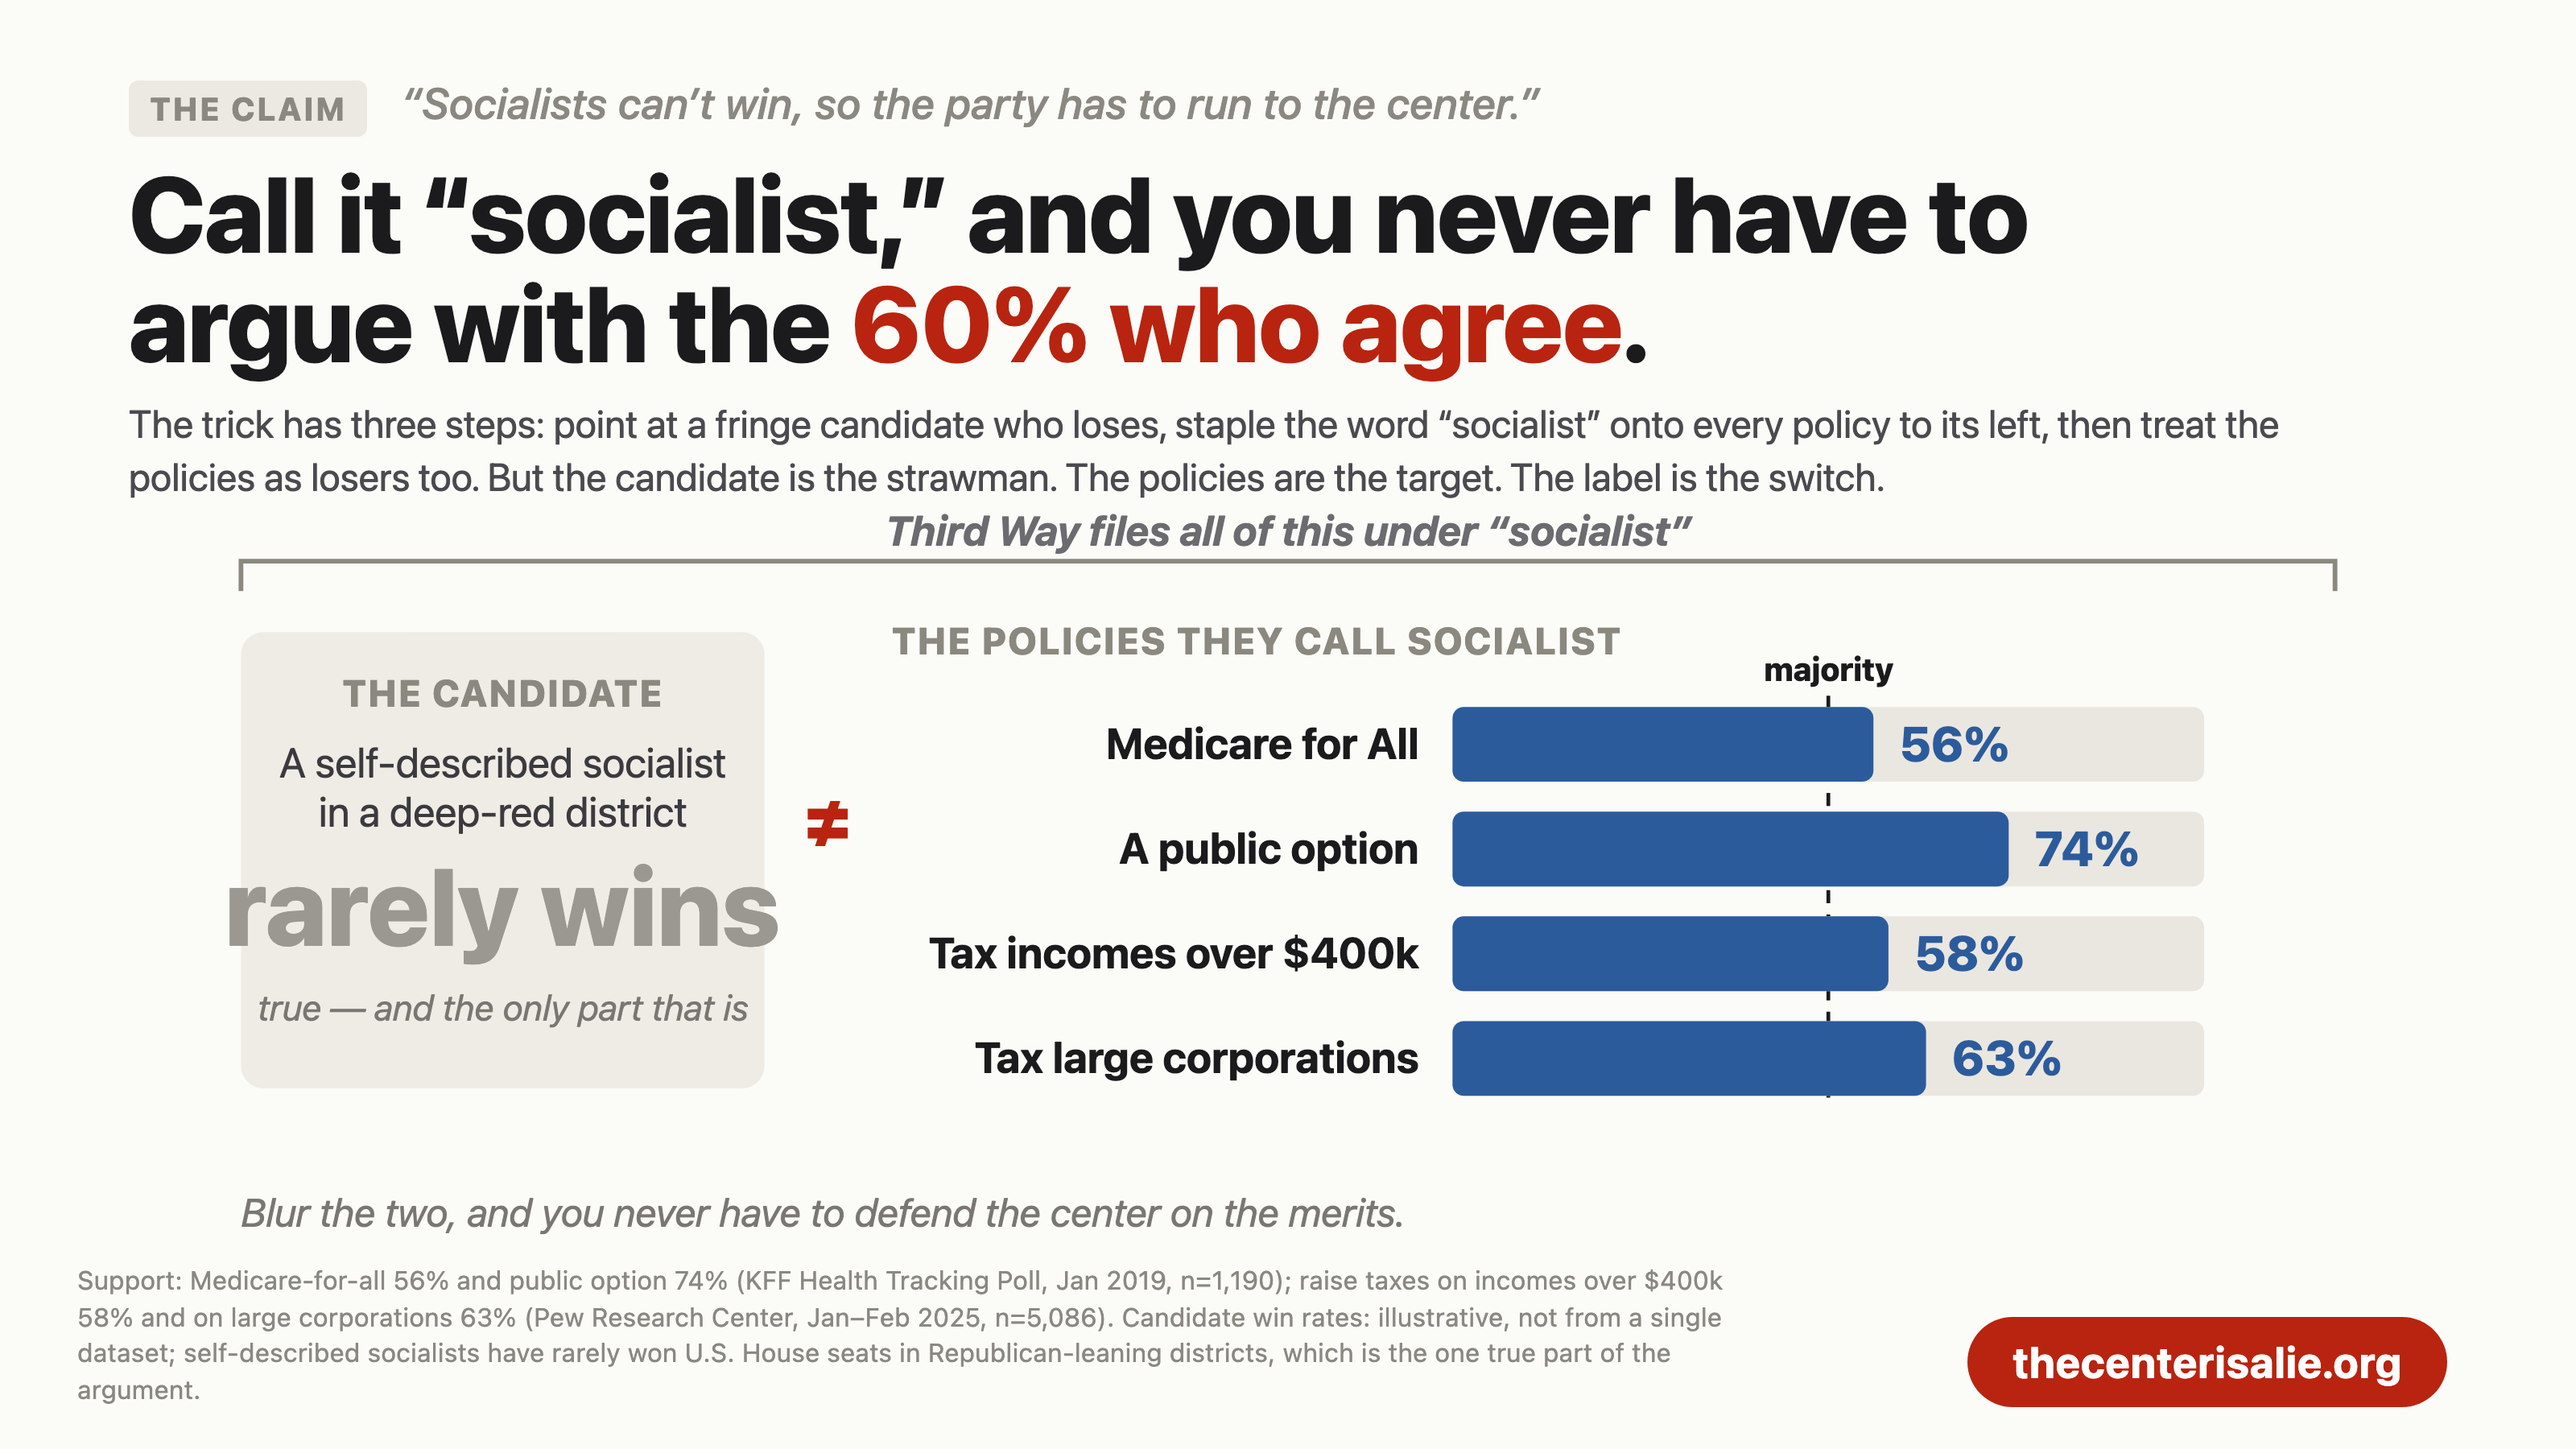
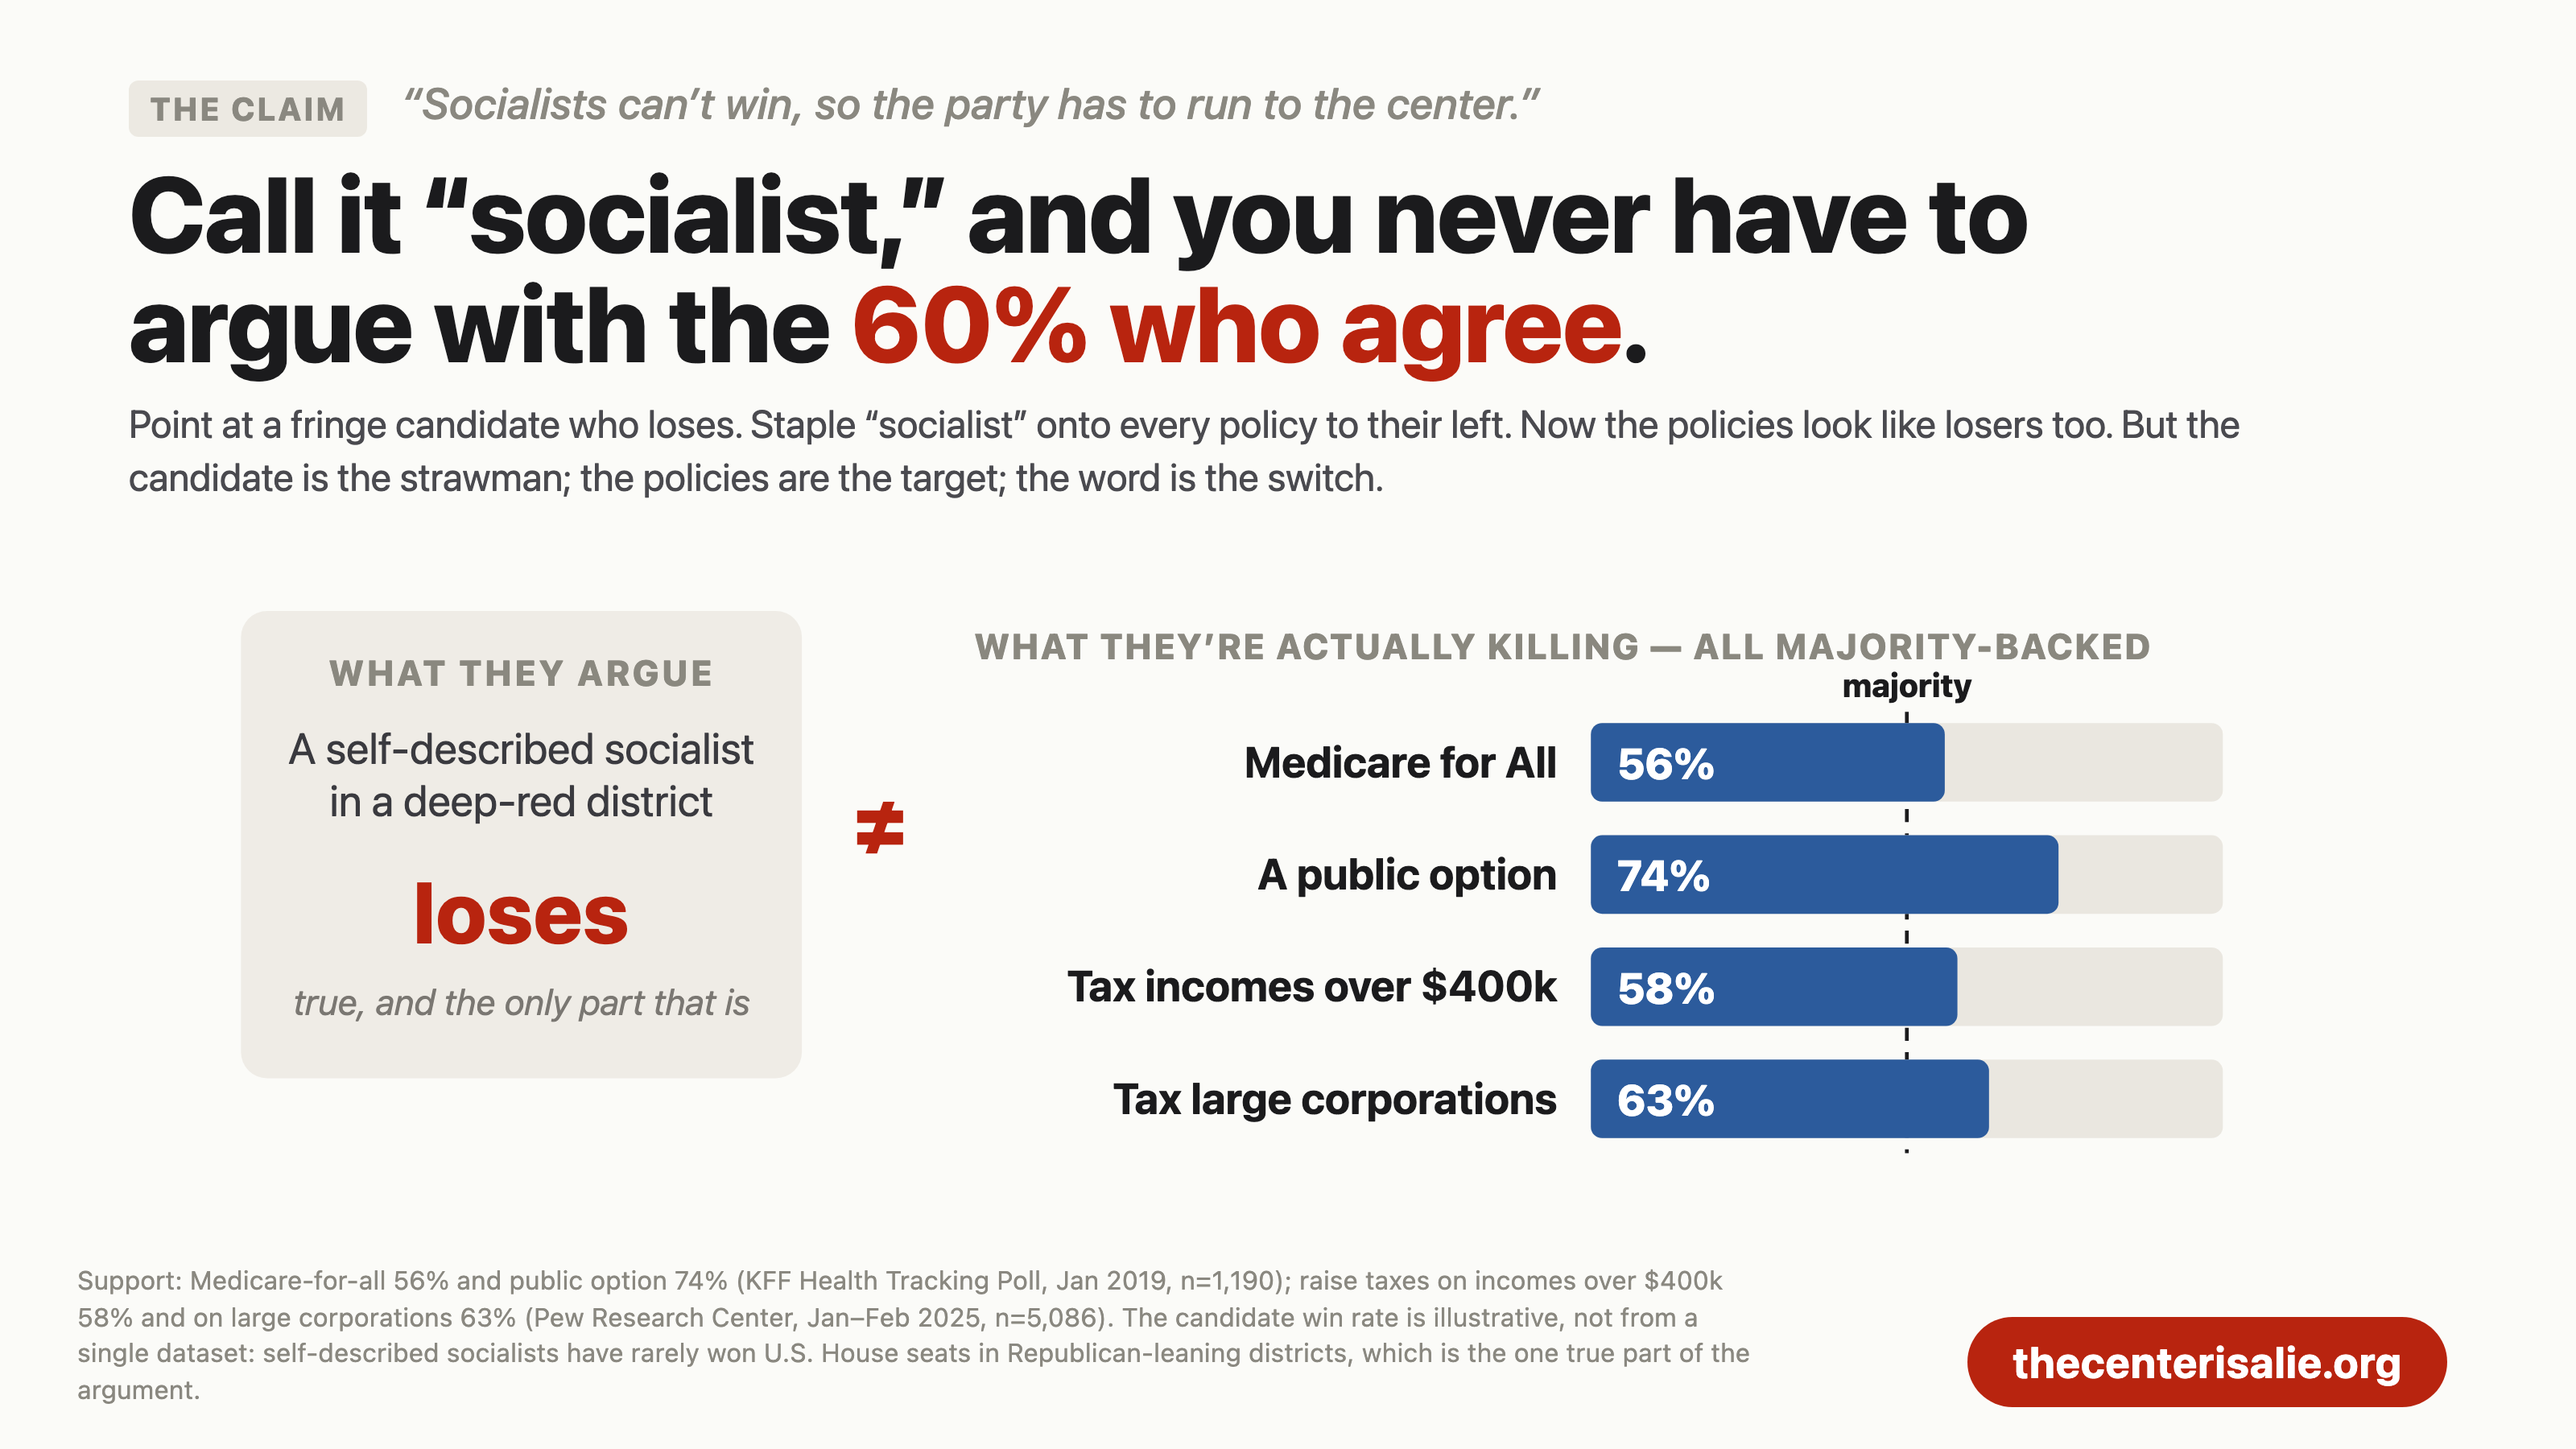
fix(og): catch text-overflows-box in the guard; rebuild labelswitch clean
Extended the render guard with a third check: a <text> node whose box is wider
or taller than the smallest rect containing its centre is overflowing its
container. This is the class my text-overlap guard was blind to, and it caught
both reported bugs on first run:
- labelswitch "rarely wins" spilling out of its panel
- mostpeople "Only with spending cuts" spilling out of its stance tag

Rebuilt labelswitch to fix all three defects the review named:
- the oversized gray-on-gray "rarely wins" is now a fitted, high-contrast red
  "loses"
- dropped the cramped "Third Way files all of this under socialist" bracket for
  two clean section headers ("WHAT THEY ARGUE" / "WHAT THEY'RE ACTUALLY KILLING")
- removed the "Blur the two" line that floated in dead space; the subhead
  already lands the point

mostpeople stance tags dropped to 18px so they fit. All 33 cards pass clip,
dead-space, text-overlap and text-overflow clean.

diff --git a/web/og-cards/chart-labelswitch.html b/web/og-cards/chart-labelswitch.html
@@ -4,13 +4,13 @@
   <div class="chartcard">
     <div class="cc-claim"><span class="tag">The claim</span> &ldquo;Socialists can&rsquo;t win, so the party has to run to the center.&rdquo;</div>
     <div class="cc-title">Call it &ldquo;socialist,&rdquo; and you never have to argue with the <span class="hl">60% who agree</span>.</div>
-    <div class="cc-sub">The trick has three steps: point at a fringe candidate who loses, staple the word &ldquo;socialist&rdquo; onto every policy to its left, then treat the policies as losers too. But the candidate is the strawman. The policies are the target. The label is the switch.</div>
+    <div class="cc-sub">Point at a fringe candidate who loses. Staple &ldquo;socialist&rdquo; onto every policy to their left. Now the policies look like losers too. But the candidate is the strawman; the policies are the target; the word is the switch.</div>
 
-    <div class="cc-chart"><svg id="ls" viewBox="0 0 1240 400" role="img"
-      aria-label="A self-described socialist rarely wins a deep-red seat, which is true. But the policies filed under socialist all win majorities: Medicare for All 56 percent, a public option 74 percent, taxing incomes over 400k 58 percent, taxing large corporations 63 percent."></svg></div>
+    <div class="cc-chart"><svg id="ls" viewBox="0 0 1240 372" role="img"
+      aria-label="A self-described socialist rarely wins a deep-red seat, which is the one true part. But the policies filed under socialist all win majorities: Medicare for All 56 percent, a public option 74 percent, taxing incomes over 400k 58 percent, taxing large corporations 63 percent."></svg></div>
 
     <div class="cc-foot">
-      <div class="cc-source">Support: Medicare-for-all 56% and public option 74% (KFF Health Tracking Poll, Jan 2019, n=1,190); raise taxes on incomes over $400k 58% and on large corporations 63% (Pew Research Center, Jan&ndash;Feb 2025, n=5,086). Candidate win rates: illustrative, not from a single dataset; self-described socialists have rarely won U.S. House seats in Republican-leaning districts, which is the one true part of the argument.</div>
+      <div class="cc-source">Support: Medicare-for-all 56% and public option 74% (KFF Health Tracking Poll, Jan 2019, n=1,190); raise taxes on incomes over $400k 58% and on large corporations 63% (Pew Research Center, Jan&ndash;Feb 2025, n=5,086). The candidate win rate is illustrative, not from a single dataset: self-described socialists have rarely won U.S. House seats in Republican-leaning districts, which is the one true part of the argument.</div>
       <div class="cc-btn">thecenterisalie.org</div>
     </div>
   </div>
@@ -21,47 +21,39 @@
     const el = (t, a) => { const n = document.createElementNS(NS, t); for (const k in a) n.setAttribute(k, a[k]); return n; };
     const txt = (a, s) => { const t = el('text', a); t.textContent = s; svg.appendChild(t); return t; };
 
-    // shared label bracket spanning both zones
-    const BX0 = 60, BX1 = 1180, BY = 28;
-    svg.appendChild(el('path', { d: `M ${BX0} ${BY + 16} L ${BX0} ${BY} L ${BX1} ${BY} L ${BX1} ${BY + 16}`, fill: 'none', stroke: '#8a887f', 'stroke-width': 2.5 }));
-    txt({ x: (BX0 + BX1) / 2, y: BY - 8, 'text-anchor': 'middle', fill: '#6b6b70', 'font-size': 22, 'font-weight': 700, 'font-style': 'italic' }, 'Third Way files all of this under &ldquo;socialist&rdquo;'.replace(/&ldquo;/g, '“').replace(/&rdquo;/g, '”'));
+    // LEFT — the candidate. One narrow, true case.
+    const LX = 60, LW = 300, tzy = 40, LH = 250;
+    svg.appendChild(el('rect', { x: LX, y: tzy, width: LW, height: LH, rx: 14, fill: '#efece6' }));
+    const lc = LX + LW / 2;
+    txt({ x: lc, y: tzy + 40, 'text-anchor': 'middle', fill: '#8a887f', 'font-size': 19, 'font-weight': 800, 'letter-spacing': 1.5 }, 'WHAT THEY ARGUE');
+    txt({ x: lc, y: tzy + 82, 'text-anchor': 'middle', fill: '#3a3a3f', 'font-size': 23 }, 'A self-described socialist');
+    txt({ x: lc, y: tzy + 110, 'text-anchor': 'middle', fill: '#3a3a3f', 'font-size': 23 }, 'in a deep-red district');
+    txt({ x: lc, y: tzy + 178, 'text-anchor': 'middle', fill: '#b8240f', 'font-size': 46, 'font-weight': 800 }, 'loses');
+    txt({ x: lc, y: tzy + 216, 'text-anchor': 'middle', fill: '#7a7772', 'font-size': 19, 'font-style': 'italic' }, 'true, and the only part that is');
 
-    // LEFT ZONE — the candidate (the one true, narrow case)
-    const LZ = 340, tzy = 66, h = 244;
-    svg.appendChild(el('rect', { x: BX0, y: tzy, width: LZ - BX0, height: h, rx: 12, fill: '#efece6' }));
-    txt({ x: (BX0 + LZ) / 2, y: tzy + 40, 'text-anchor': 'middle', fill: '#8a887f', 'font-size': 20, 'font-weight': 800, 'letter-spacing': 1 }, 'THE CANDIDATE');
-    txt({ x: (BX0 + LZ) / 2, y: tzy + 78, 'text-anchor': 'middle', fill: '#3a3a3f', 'font-size': 22 }, 'A self-described socialist');
-    txt({ x: (BX0 + LZ) / 2, y: tzy + 104, 'text-anchor': 'middle', fill: '#3a3a3f', 'font-size': 22 }, 'in a deep-red district');
-    txt({ x: (BX0 + LZ) / 2, y: tzy + 168, 'text-anchor': 'middle', fill: '#9a9891', 'font-size': 58, 'font-weight': 800 }, 'rarely wins');
-    txt({ x: (BX0 + LZ) / 2, y: tzy + 208, 'text-anchor': 'middle', fill: '#7a7772', 'font-size': 19, 'font-style': 'italic' }, 'true — and the only part that is');
+    // the switch
+    txt({ x: LX + LW + 42, y: tzy + LH / 2 + 4, 'text-anchor': 'middle', fill: '#b8240f', 'font-size': 46, 'font-weight': 800 }, '≠');
 
-    // divider
-    txt({ x: LZ + 34, y: tzy + h / 2 - 8, 'text-anchor': 'middle', fill: '#b8240f', 'font-size': 40, 'font-weight': 800 }, '≠');
-
-    // RIGHT ZONE — the policies, all majority
-    const RX0 = LZ + 68, RX1 = 1180, RW = RX1 - RX0;
-    txt({ x: RX0, y: tzy + 12, 'text-anchor': 'start', fill: '#8a887f', 'font-size': 20, 'font-weight': 800, 'letter-spacing': 1 }, 'THE POLICIES THEY CALL SOCIALIST');
+    // RIGHT — the policies. All majority.
+    const RX = LX + LW + 92;
+    txt({ x: RX, y: tzy + 26, 'text-anchor': 'start', fill: '#8a887f', 'font-size': 19, 'font-weight': 800, 'letter-spacing': 1 }, 'WHAT THEY’RE ACTUALLY KILLING — ALL MAJORITY-BACKED');
     const items = [
       { n: 'Medicare for All', v: 56 },
       { n: 'A public option', v: 74 },
       { n: 'Tax incomes over $400k', v: 58 },
       { n: 'Tax large corporations', v: 63 },
     ];
-    const bx0 = RX0 + 300, bx1 = RX1 - 70, bw = bx1 - bx0;
-    const rowTop = tzy + 40, rh = 40, gap = 16;
-    // majority reference line
-    const mjx = bx0 + 0.5 * bw;
-    svg.appendChild(el('line', { x1: mjx, y1: rowTop - 6, x2: mjx, y2: rowTop + items.length * (rh + gap) - gap + 6, stroke: '#1b1b1d', 'stroke-width': 2, 'stroke-dasharray': '7 6' }));
+    const bx0 = RX + 330, bx1 = 1120, bw = bx1 - bx0;
+    const rowTop = tzy + 60, rh = 42, gap = 18;
+    const mjx = bx0 + 0.5 * bw, mjBot = rowTop + items.length * (rh + gap) - gap + 8;
+    svg.appendChild(el('line', { x1: mjx, y1: rowTop - 6, x2: mjx, y2: mjBot, stroke: '#1b1b1d', 'stroke-width': 2, 'stroke-dasharray': '7 6' }));
     txt({ x: mjx, y: rowTop - 14, 'text-anchor': 'middle', fill: '#1b1b1d', 'font-size': 17, 'font-weight': 800 }, 'majority');
     items.forEach((it, i) => {
       const y = rowTop + i * (rh + gap);
-      txt({ x: bx0 - 18, y: y + rh - 12, 'text-anchor': 'end', fill: '#1b1b1d', 'font-size': 23, 'font-weight': 700 }, it.n);
+      txt({ x: bx0 - 18, y: y + rh - 13, 'text-anchor': 'end', fill: '#1b1b1d', 'font-size': 23, 'font-weight': 700 }, it.n);
       svg.appendChild(el('rect', { x: bx0, y, width: bw, height: rh, rx: 6, fill: '#eae7e0' }));
       svg.appendChild(el('rect', { x: bx0, y, width: bw * it.v / 100, height: rh, rx: 6, fill: '#2c5b9c' }));
-      txt({ x: bx0 + bw * it.v / 100 + 14, y: y + rh - 11, 'text-anchor': 'start', fill: '#2c5b9c', 'font-size': 26, 'font-weight': 800 }, it.v + '%');
+      txt({ x: bx0 + 14, y: y + rh - 12, 'text-anchor': 'start', fill: '#fff', 'font-size': 23, 'font-weight': 800 }, it.v + '%');
     });
-
-    txt({ x: 60, y: 384, 'text-anchor': 'start', fill: '#7a7772', 'font-size': 21, 'font-style': 'italic' },
-      'Blur the two, and you never have to defend the center on the merits.');
   </script>
 </body></html>

diff --git a/web/og-cards/chart-mostpeople.html b/web/og-cards/chart-mostpeople.html
@@ -54,7 +54,7 @@
       // stance tag
       const col = r.oppose ? '#b8240f' : '#8a887f';
       svg.appendChild(el('rect', { x: STANCEX, y: y + 3, width: 240, height: rh - 6, rx: 8, fill: col, 'fill-opacity': r.oppose ? 1 : 0.16, stroke: r.oppose ? 'none' : col, 'stroke-width': r.oppose ? 0 : 1.5 }));
-      txt({ x: STANCEX + 120, y: y + rh - 13, 'text-anchor': 'middle', fill: r.oppose ? '#fff' : '#6b5b58', 'font-size': 21, 'font-weight': 800 }, r.stance.replace(/“|”/g, '"'));
+      txt({ x: STANCEX + 120, y: y + rh - 13, 'text-anchor': 'middle', fill: r.oppose ? '#fff' : '#6b5b58', 'font-size': 18, 'font-weight': 800 }, r.stance.replace(/“|”/g, '"'));
     });
 
   </script>
